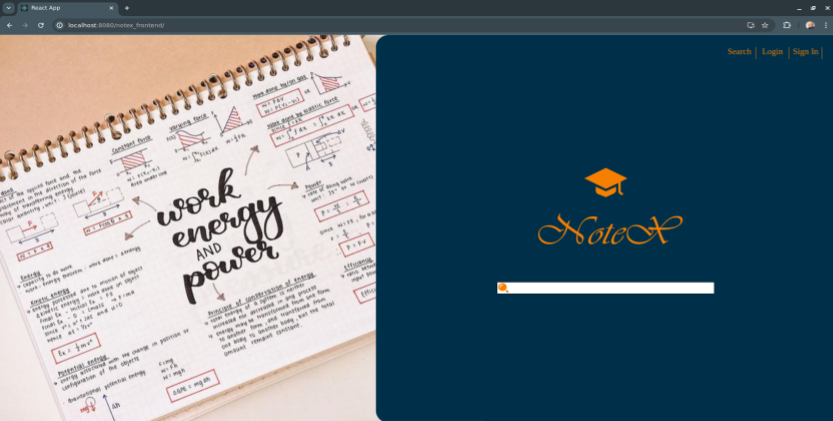
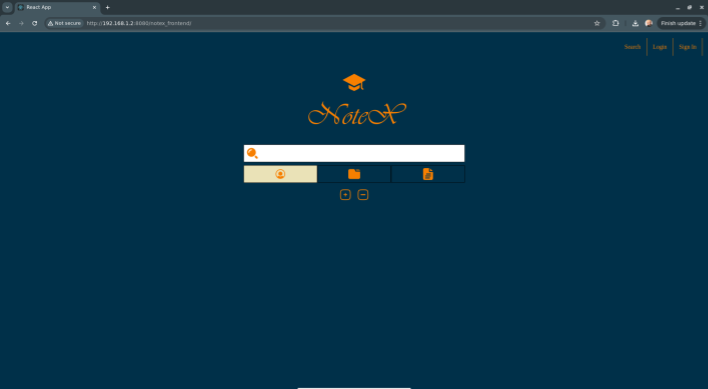
updated readme

diff --git a/frontend/src/data/api.js b/frontend/src/data/api.js
@@ -5,7 +5,7 @@ import APIResultMock from "../utils/APIResultMock";
 import usersMock from "../utils/usersMock";
 
 // real APIs
-const ip="localhost"
+const ip="192.168.1.2" // insert your IP here
 const port="8080"
 
 const APIs_REAL = {
@@ -271,8 +271,8 @@ const APIs_MOCK = {
 
 
 
-// const APIs = APIs_REAL 
-const APIs = APIs_MOCK
+const APIs = APIs_REAL 
+//const APIs = APIs_MOCK
 
 
 

diff --git a/README.md b/README.md
@@ -5,7 +5,7 @@
 ## Introduction
 
 NoteX is a web application designed as part of a Software Engineering course. Its goal is to provide a social platform where students can freely share their notes.<br/>
-<!--A working demo of the frontend is online at [https://b3nny01.github.io/NoteX/](https://b3nny01.github.io/NoteX/)-->
+A working demo of the frontend is online at [https://b3nny01.github.io/NoteX/](https://b3nny01.github.io/NoteX/)
 
 ## Development Process
 
@@ -48,13 +48,10 @@ We also modeled the concept of Reports, where users can report others, and Assis
 
 NoteX follows a three-layer architecture:
 
-1. **Client**: Built with React, the frontend interacts with the server through REST-inspired APIs. We used the create-react-app workflow, with a Node intermediary server between the frontend and the Java backend.
+1. **Client**: Built with React, the frontend interacts with the server through REST-inspired APIs. We used the create-react-app workflow, with a Node intermediary server.
+During the frontend development we used a mock version of the APIs, these mock APIs are the same used in the prototype deployed on github-pages 
 2. **Server**: The backend is powered by Java EE, with APIs organized into groups (e.g., registration, loginAndAuth, user management). Each group is managed by a servlet that delegates business logic to a controller. Controllers retrieve domain classes via Hibernate, execute methods, and persist changes.
 3. **Persistence**: Persistence is managed by an RDBMS for domain-related data (e.g., user info, notebook names) and a web server for note files. This hybrid approach was chosen for simplicity and efficiency.
-
-**Development Architecture**:
-
-<img src="_readmeImgs_/devArchitecture.png" width="600px">
 
 **Release Architecture**:
 
@@ -72,7 +69,8 @@ To simplify deployment, NoteX uses Gradle (v8.9, or `gradlew`), npm (v9.2.0), No
 
 ### Release Architecture
 
-To test the release architecture of the prototype, navigate to the project folder and run:
+To test the release architecture of the prototype,
+open the `frontend/src/data/api.js` file and **change the ip variable with your ip address**, then navigate to the project folder and run:
 ```bash
 ./gradlew deploy
 ```
@@ -83,37 +81,31 @@ This task will:
 * Build the frontend in the build folder using npm.
 * Create and activate new application containers using Docker Compose.
 
-Then, open Chrome and go to `localhost:8080/notex_frontend`, which should display the following screen:
+Then, open Chrome and go to `<your_ip>:8080/notex_frontend`, which should display the following screen:
 
 <img src="_readmeImgs_/homeScreen.png" width="600px">
 
-### Development Architecture
-To test the development architecture, run:
-
-```bash
-./gradlew deployBackend
+### Frontend Development
+To test the frontend development architecture open the `frontend/src/data/api.js` file and **change the APIs variable** at the end of the file from 
+```javascript
+const APIs=APIs_REAL
 ```
-
-This task will:
-
-* Remove previous NoteX-related Docker containers.
-* Generate the backend notex_backend.war using Gradle in the backend/build/libs folder.
-* Create and activate new application containers using Docker Compose.
-
-Next, open a terminal in the frontend folder and run:
-
+to
+```javascript
+const APIs=APIs_MOCK
+```
+Then open a terminal in the `frontend` folder and run:
 ```bash
 npm start
 ```
 This will start a Node server at `localhost:3000/notex_frontend`. Open this link in Chrome to view the NoteX homepage.
 
-<!--
 ### Online Demo
 A working demo of the frontend is online at [https://b3nny01.github.io/NoteX/](https://b3nny01.github.io/NoteX/)
 
 > [!NOTE]
 > The online demo only comprehends the frontend, for this reason every backend request (sign in, login, notebook creation, ...) is simulated and produces no real modification
--->
+
 ## Credits
 The project has been developed by:
 
